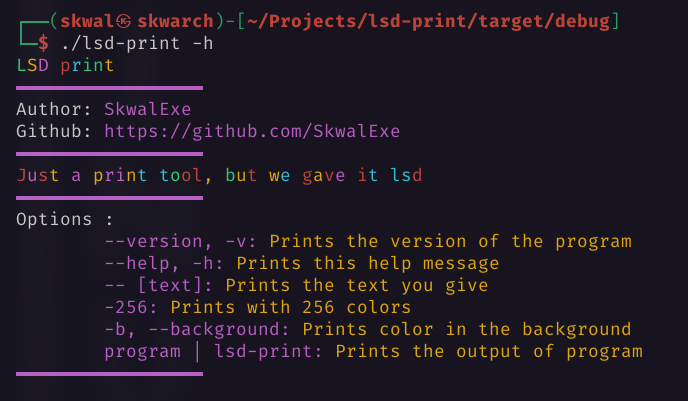
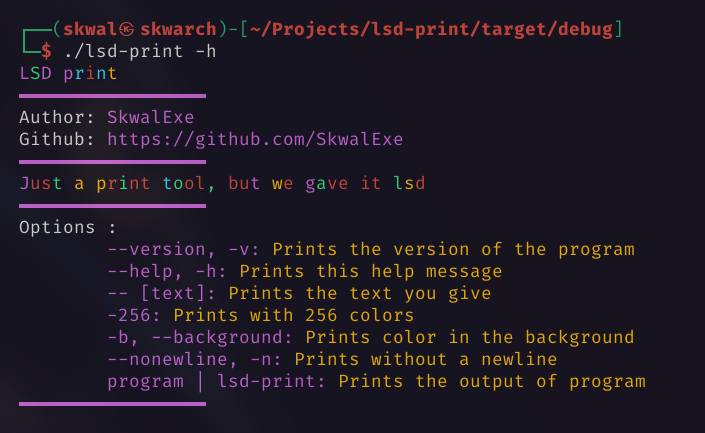
Add -n option to help and update usage image in readme (#6)

Changed region(s): [[0.1526, 0.5387, 0.9462, 0.8978], [0.0, 0.0299, 0.9157, 0.5686]]

diff --git a/src/main.rs b/src/main.rs
@@ -190,6 +190,10 @@ fn main() {
                 MAGENTA, YELLOW, RESET
             );
             println!(
+                "\t{}--nonewline, -n: {}Prints without a newline{}",
+                MAGENTA, YELLOW, RESET
+            );
+            println!(
                 "{}\tprogram | lsd-print: {}Prints the output of program{}",
                 MAGENTA, YELLOW, RESET
             );
